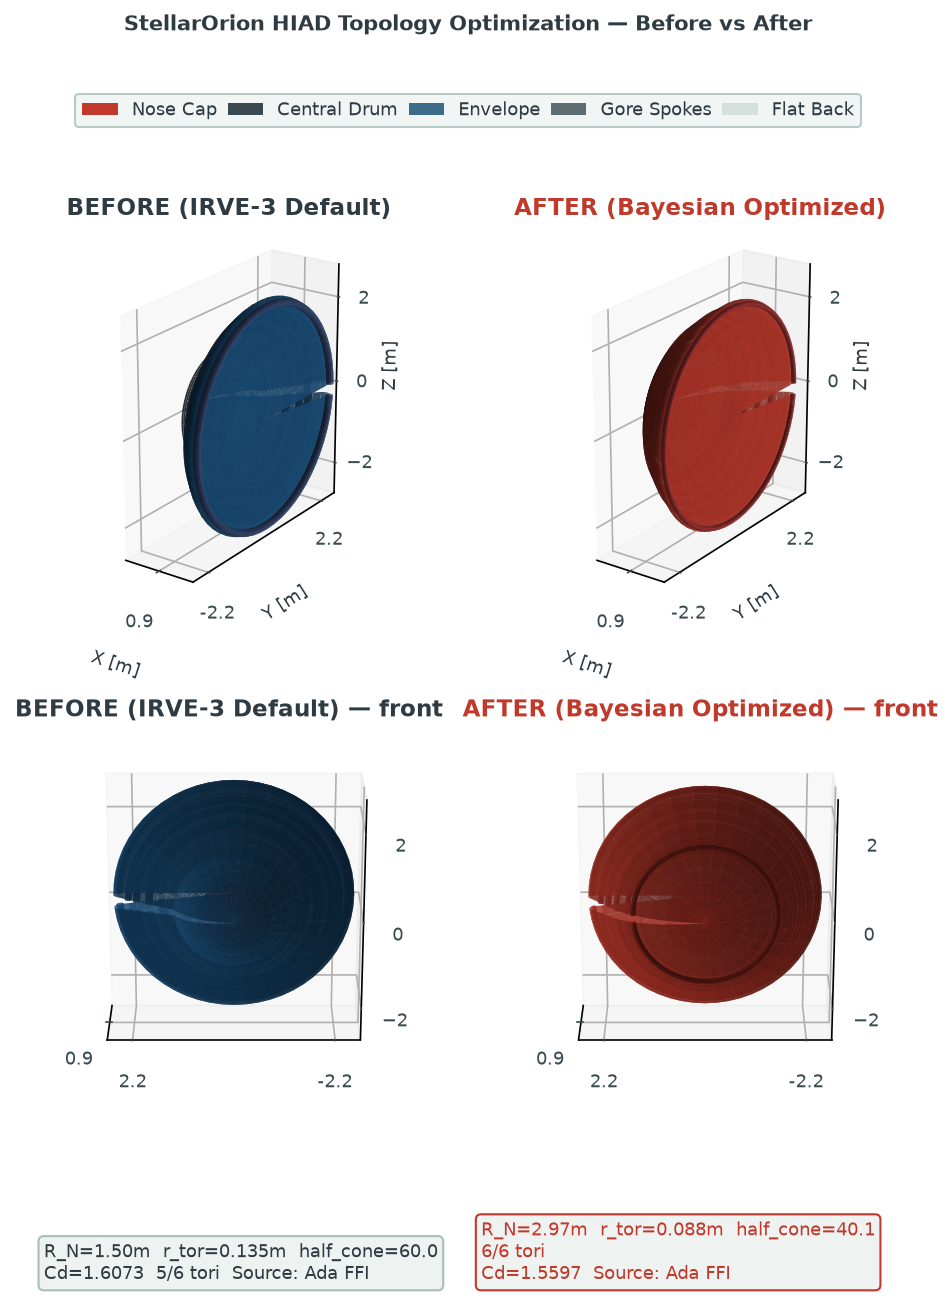
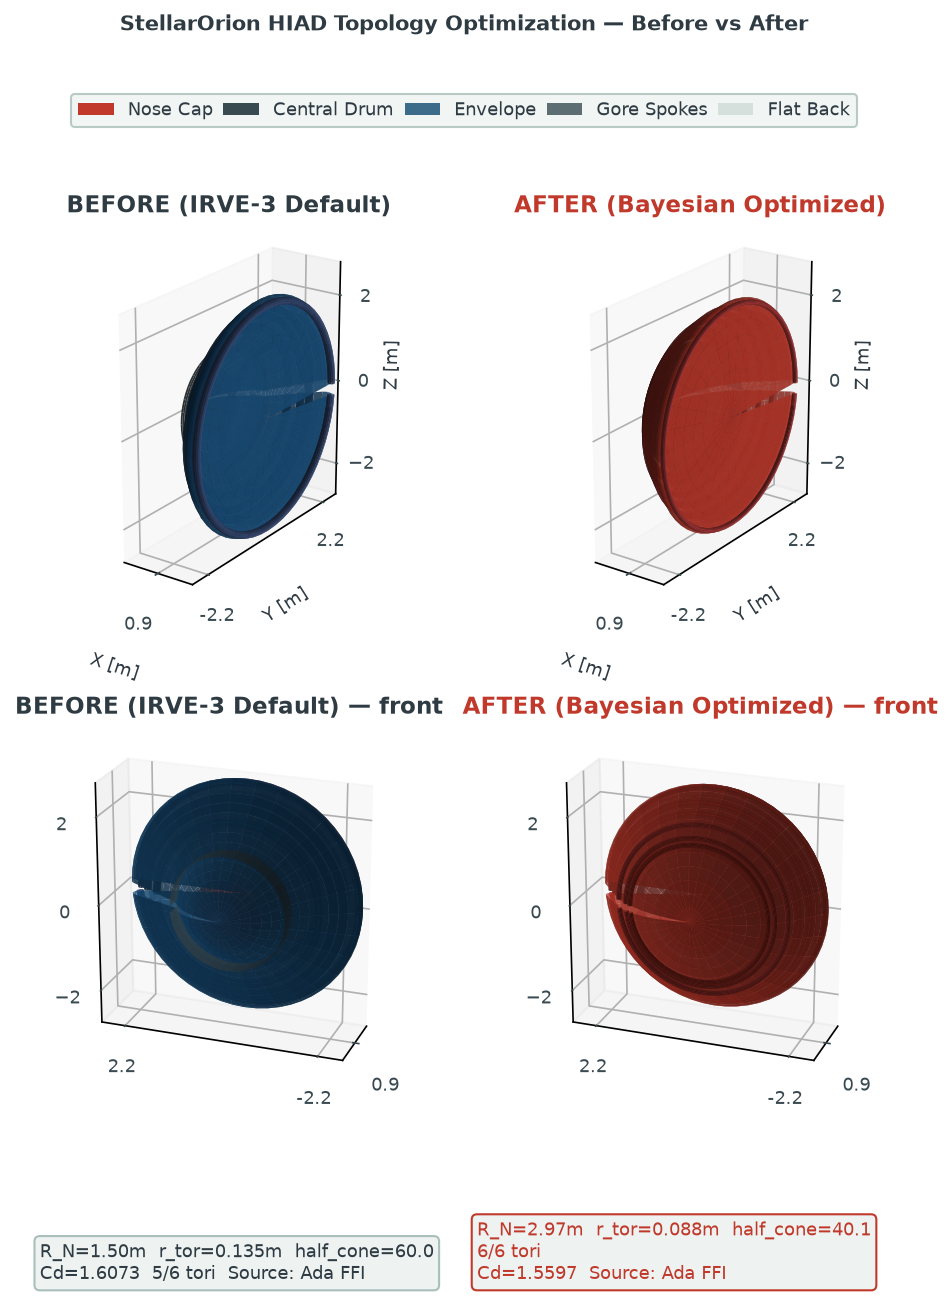
fix(fig): front row camera to azim=200 (slight right oblique, not flat nose-on)

diff --git a/stellarorion_program_proc/scripts/render_optimization_comparison.py b/stellarorion_program_proc/scripts/render_optimization_comparison.py
@@ -779,8 +779,8 @@ def _apply_view(ax: Any, x_max: float, r_max: float,
     # Box aspect proportional to data extents (X length vs YZ diameter)
     ax.set_box_aspect([x_max * 1.02, 2.08 * r_max, 2.08 * r_max])
     # Camera override: side row uses the repo-standard 3/4 view (elev=22,
-    # azim=-55); the front row passes azim=180 (eye on the -X windward axis,
-    # nose-on) so the reader sees the face the run actually impinges, per the
+    # azim=-55); the front row passes azim=200 (eye on the -X windward side,
+    # offset 20 deg toward -Y so a little of the right flank shows), per the
     # F67 request to expose the topology difference from the front.
     ax.view_init(elev=elev, azim=azim)
 
@@ -1055,11 +1055,11 @@ def main() -> int:
     # ------------------------------------------------------------------
     # FRONT row (F67 request): the SAME two bodies viewed nose-on, so the
     # topology difference is legible from the front as well as the 3/4 side.
-    # Camera azim=180 places the eye on the -X windward axis (the run face);
-    # elev stays 22 so the two rows share a shading convention. A front view
-    # of an axisymmetric body shows concentric rings (the silhouette is
-    # azimuth-invariant, per render_geometry_4views A5) — that IS the point:
-    # the disc diameter and torus spacing read directly against each other.
+    # Camera azim=200 places the eye on the -X (windward) side, offset 20 deg
+    # toward -Y so a little of the body's right flank shows and the panel is
+    # not a flat nose-on disc; elev stays 22 so the two rows share a shading
+    # convention. The rear row's 3/4 view (azim=-55) also sits on the -Y side,
+    # so front and rear show the same flank.
     # No parameter footers repeat here; the numbers sit once, under the rear.
     # ------------------------------------------------------------------
     ax3 = fig.add_subplot(223, projection='3d', facecolor='#ffffff')
@@ -1070,7 +1070,7 @@ def main() -> int:
     ax3.set_title('BEFORE (IRVE-3 Default) — front',
                   color='#2f3b43', fontsize=11, fontweight='bold', pad=8)
     ax3.tick_params(colors='#3a4a51', labelsize=8.5)
-    _apply_view(ax3, x_max_all, r_max_all, elev=22.0, azim=180.0)
+    _apply_view(ax3, x_max_all, r_max_all, elev=22.0, azim=200.0)
 
     ax4 = fig.add_subplot(224, projection='3d', facecolor='#ffffff')
     render_hiad(ax4, x_opt, y_opt,
@@ -1080,7 +1080,7 @@ def main() -> int:
     ax4.set_title('AFTER (Bayesian Optimized) — front',
                   color='#c0392b', fontsize=11, fontweight='bold', pad=8)
     ax4.tick_params(colors='#3a4a51', labelsize=8.5)
-    _apply_view(ax4, x_max_all, r_max_all, elev=22.0, azim=180.0)
+    _apply_view(ax4, x_max_all, r_max_all, elev=22.0, azim=200.0)
 
     # WHY (pixel audit 2026-10-08, take 2): azim=-55 foreshortens the axial
     # direction so hard that 80 % of the x span maps to ~12.5 px of screen
